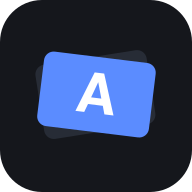
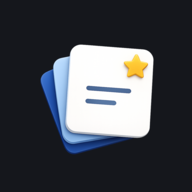
Ny appikon (kort-stack med stjärna) + döp om till Flippa

diff --git a/index.html b/index.html
@@ -3,7 +3,7 @@
 <head>
   <meta charset="UTF-8" />
   <meta name="viewport" content="width=device-width, initial-scale=1.0, viewport-fit=cover" />
-  <title>Flashcards</title>
+  <title>Flippa</title>
   <link rel="manifest" href="manifest.json" />
   <meta name="theme-color" content="#15171c" />
   <meta name="apple-mobile-web-app-capable" content="yes" />
@@ -19,7 +19,7 @@
   <!-- Ämnesskärm -->
   <section id="subjects-screen" class="screen">
     <header class="app-header">
-      <h1>📚 Flashcards</h1>
+      <h1>📚 Flippa</h1>
       <button id="add-subject" class="icon-btn" title="Nytt ämne">＋</button>
     </header>
     <div id="subjects-list" class="list"></div>

diff --git a/sw.js b/sw.js
@@ -1,4 +1,4 @@
-const CACHE = "flashcards-v12";
+const CACHE = "flashcards-v13";
 const ASSETS = [
   "./",
   "./index.html",